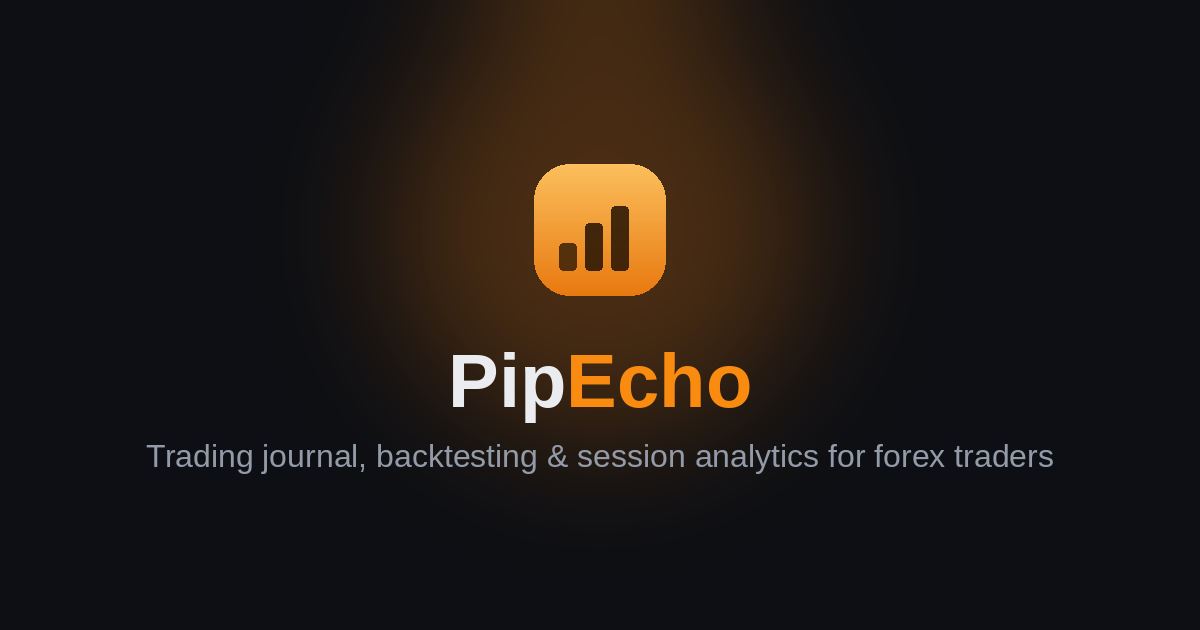
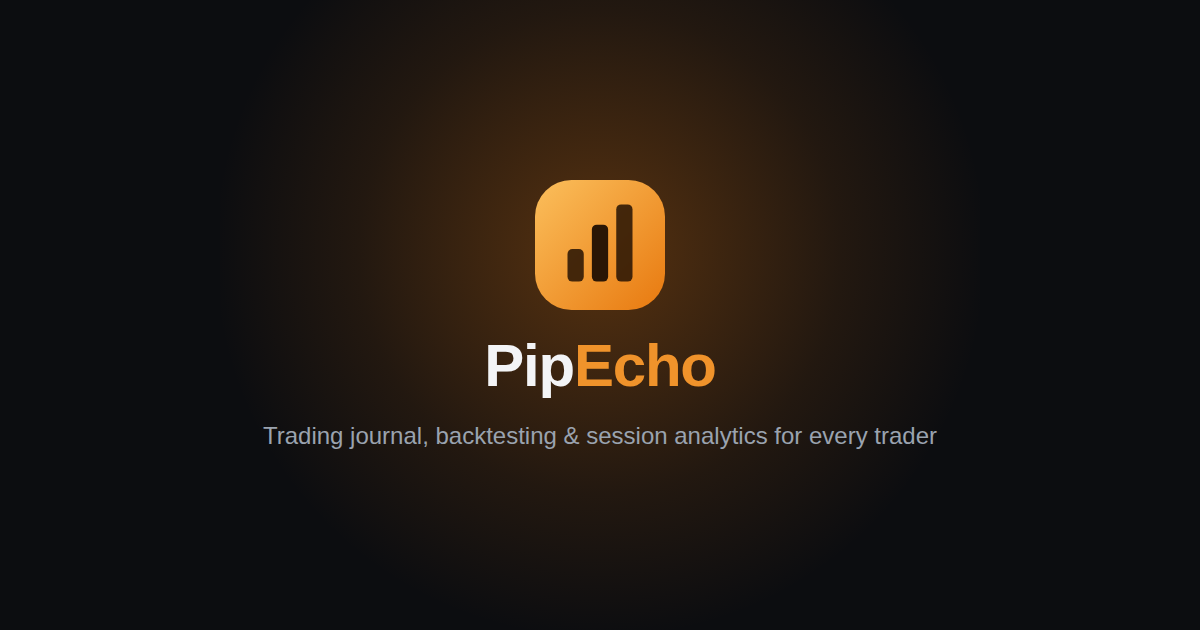
0209_1629

Changed region(s): [[0.1233, 0.5429, 0.8942, 0.754], [0.4317, 0.2413, 0.555, 0.5127], [0.4317, 0.0, 0.5858, 0.0905]]

diff --git a/trading-journal-standalone/index.html b/trading-journal-standalone/index.html
@@ -3,8 +3,8 @@
   <head>
     <meta charset="UTF-8" />
     <meta name="viewport" content="width=device-width, initial-scale=1.0" />
-    <title>PipEcho — Trading Journal, Backtesting & Session Analytics for Forex Traders</title>
-    <meta name="description" content="PipEcho is a trading journal, backtesting and session-analytics workspace built for forex traders — Strategy Playbooks, Risk Guardrail, and pre-trade checklists included free." />
+    <title>PipEcho — Trading Journal, Backtesting & Session Analytics for Traders</title>
+    <meta name="description" content="PipEcho is a trading journal, backtesting and session-analytics workspace built for every trader — forex, crypto, futures, and stocks — with Strategy Playbooks, Risk Guardrail, and pre-trade checklists included free." />
 
     <!--
       Site-wide fallback Open Graph/Twitter Card tags. These are static (baked
@@ -24,15 +24,15 @@
     -->
     <meta property="og:type" content="website" />
     <meta property="og:site_name" content="PipEcho" />
-    <meta property="og:title" content="PipEcho — Trading Journal, Backtesting & Session Analytics for Forex Traders" />
-    <meta property="og:description" content="A trading journal, backtesting and session-analytics workspace built for forex traders — Strategy Playbooks, Risk Guardrail, and pre-trade checklists included free." />
+    <meta property="og:title" content="PipEcho — Trading Journal, Backtesting & Session Analytics for Traders" />
+    <meta property="og:description" content="A trading journal, backtesting and session-analytics workspace built for every trader — forex, crypto, futures, and stocks — with Strategy Playbooks, Risk Guardrail, and pre-trade checklists included free." />
     <meta property="og:image" content="https://pipecho.com/og-image.png" />
     <meta property="og:image:width" content="1200" />
     <meta property="og:image:height" content="630" />
     <meta property="og:url" content="https://pipecho.com/" />
     <meta name="twitter:card" content="summary_large_image" />
-    <meta name="twitter:title" content="PipEcho — Trading Journal, Backtesting & Session Analytics for Forex Traders" />
-    <meta name="twitter:description" content="A trading journal, backtesting and session-analytics workspace built for forex traders — Strategy Playbooks, Risk Guardrail, and pre-trade checklists included free." />
+    <meta name="twitter:title" content="PipEcho — Trading Journal, Backtesting & Session Analytics for Traders" />
+    <meta name="twitter:description" content="A trading journal, backtesting and session-analytics workspace built for every trader — forex, crypto, futures, and stocks — with Strategy Playbooks, Risk Guardrail, and pre-trade checklists included free." />
     <meta name="twitter:image" content="https://pipecho.com/og-image.png" />
 
     <link rel="canonical" href="https://pipecho.com/" />

diff --git a/trading-journal-standalone/src/pages/Landing.tsx b/trading-journal-standalone/src/pages/Landing.tsx
@@ -96,15 +96,15 @@ function fmtDate(iso: string) {
 
 export default function Landing() {
   useDocumentMeta({
-    title: 'PipEcho — Trading Journal, Backtesting & Session Analytics for Forex Traders',
-    description: 'A trading journal, backtesting and session-analytics workspace built for forex traders — Strategy Playbooks, Risk Guardrail, and pre-trade checklists included free.',
+    title: 'PipEcho — Trading Journal, Backtesting & Session Analytics for Traders',
+    description: 'A trading journal, backtesting and session-analytics workspace built for every trader — forex, crypto, futures, and stocks — with Strategy Playbooks, Risk Guardrail, and pre-trade checklists included free.',
     jsonLd: {
       '@context': 'https://schema.org',
       '@type': 'SoftwareApplication',
       name: 'PipEcho',
       applicationCategory: 'FinanceApplication',
       operatingSystem: 'Web',
-      description: 'A trading journal, backtesting and session-analytics workspace built for forex traders.',
+      description: 'A trading journal, backtesting and session-analytics workspace built for every trader, across forex, crypto, futures, and stocks.',
       offers: { '@type': 'Offer', price: '0', priceCurrency: 'USD' },
       url: 'https://pipecho.com/',
     },
@@ -117,7 +117,7 @@ export default function Landing() {
         <HeroBackground />
         <div className="relative max-w-6xl mx-auto">
           <span className="inline-block text-xs font-semibold tracking-wide uppercase text-primary bg-accent px-3 py-1 rounded-full mb-6">
-            Built for forex traders
+            Built for every trader — forex to crypto
           </span>
           <h1 className="text-4xl sm:text-5xl font-bold tracking-tight max-w-3xl mx-auto leading-tight">
             Trade with data, not guesswork.

diff --git a/trading-journal-standalone/src/pages/Blog.tsx b/trading-journal-standalone/src/pages/Blog.tsx
@@ -12,7 +12,7 @@ function fmtDate(iso: string) {
 export default function Blog() {
   useDocumentMeta({
     title: 'Blog — PipEcho',
-    description: 'Notes on strategy, risk management, and backtesting for forex traders, from the trader building PipEcho.',
+    description: 'Notes on strategy, risk management, and backtesting for every trader, from the trader building PipEcho.',
   });
   return (
     <div className="min-h-screen bg-background text-foreground">

diff --git a/trading-journal-standalone/src/pages/BlogPost.tsx b/trading-journal-standalone/src/pages/BlogPost.tsx
@@ -20,7 +20,7 @@ export default function BlogPost() {
   // case anyway.
   useDocumentMeta({
     title: post ? `${post.title} — PipEcho` : 'PipEcho Blog',
-    description: post ? post.excerpt : 'Notes on strategy, risk management, and backtesting for forex traders.',
+    description: post ? post.excerpt : 'Notes on strategy, risk management, and backtesting for every trader.',
     jsonLd: post
       ? {
           '@context': 'https://schema.org',

diff --git a/trading-journal-standalone/src/pages/FeatureDetail.tsx b/trading-journal-standalone/src/pages/FeatureDetail.tsx
@@ -28,7 +28,7 @@ export default function FeatureDetail() {
 
   useDocumentMeta({
     title: feature ? `${feature.title} — PipEcho` : 'PipEcho Features',
-    description: feature ? feature.desc : 'Everything PipEcho does for forex traders.',
+    description: feature ? feature.desc : 'Everything PipEcho does for every trader.',
     jsonLd: feature
       ? {
           '@context': 'https://schema.org',

diff --git a/trading-journal-standalone/src/pages/ui/MarketingChrome.tsx b/trading-journal-standalone/src/pages/ui/MarketingChrome.tsx
@@ -183,7 +183,7 @@ export function MarketingFooter() {
             <span>PipEcho</span>
           </div>
           <p className="text-xs text-muted-foreground leading-relaxed">
-            A trading journal and backtesting workspace for forex traders.
+            A trading journal and backtesting workspace for every trader.
           </p>
         </div>
         <div>
